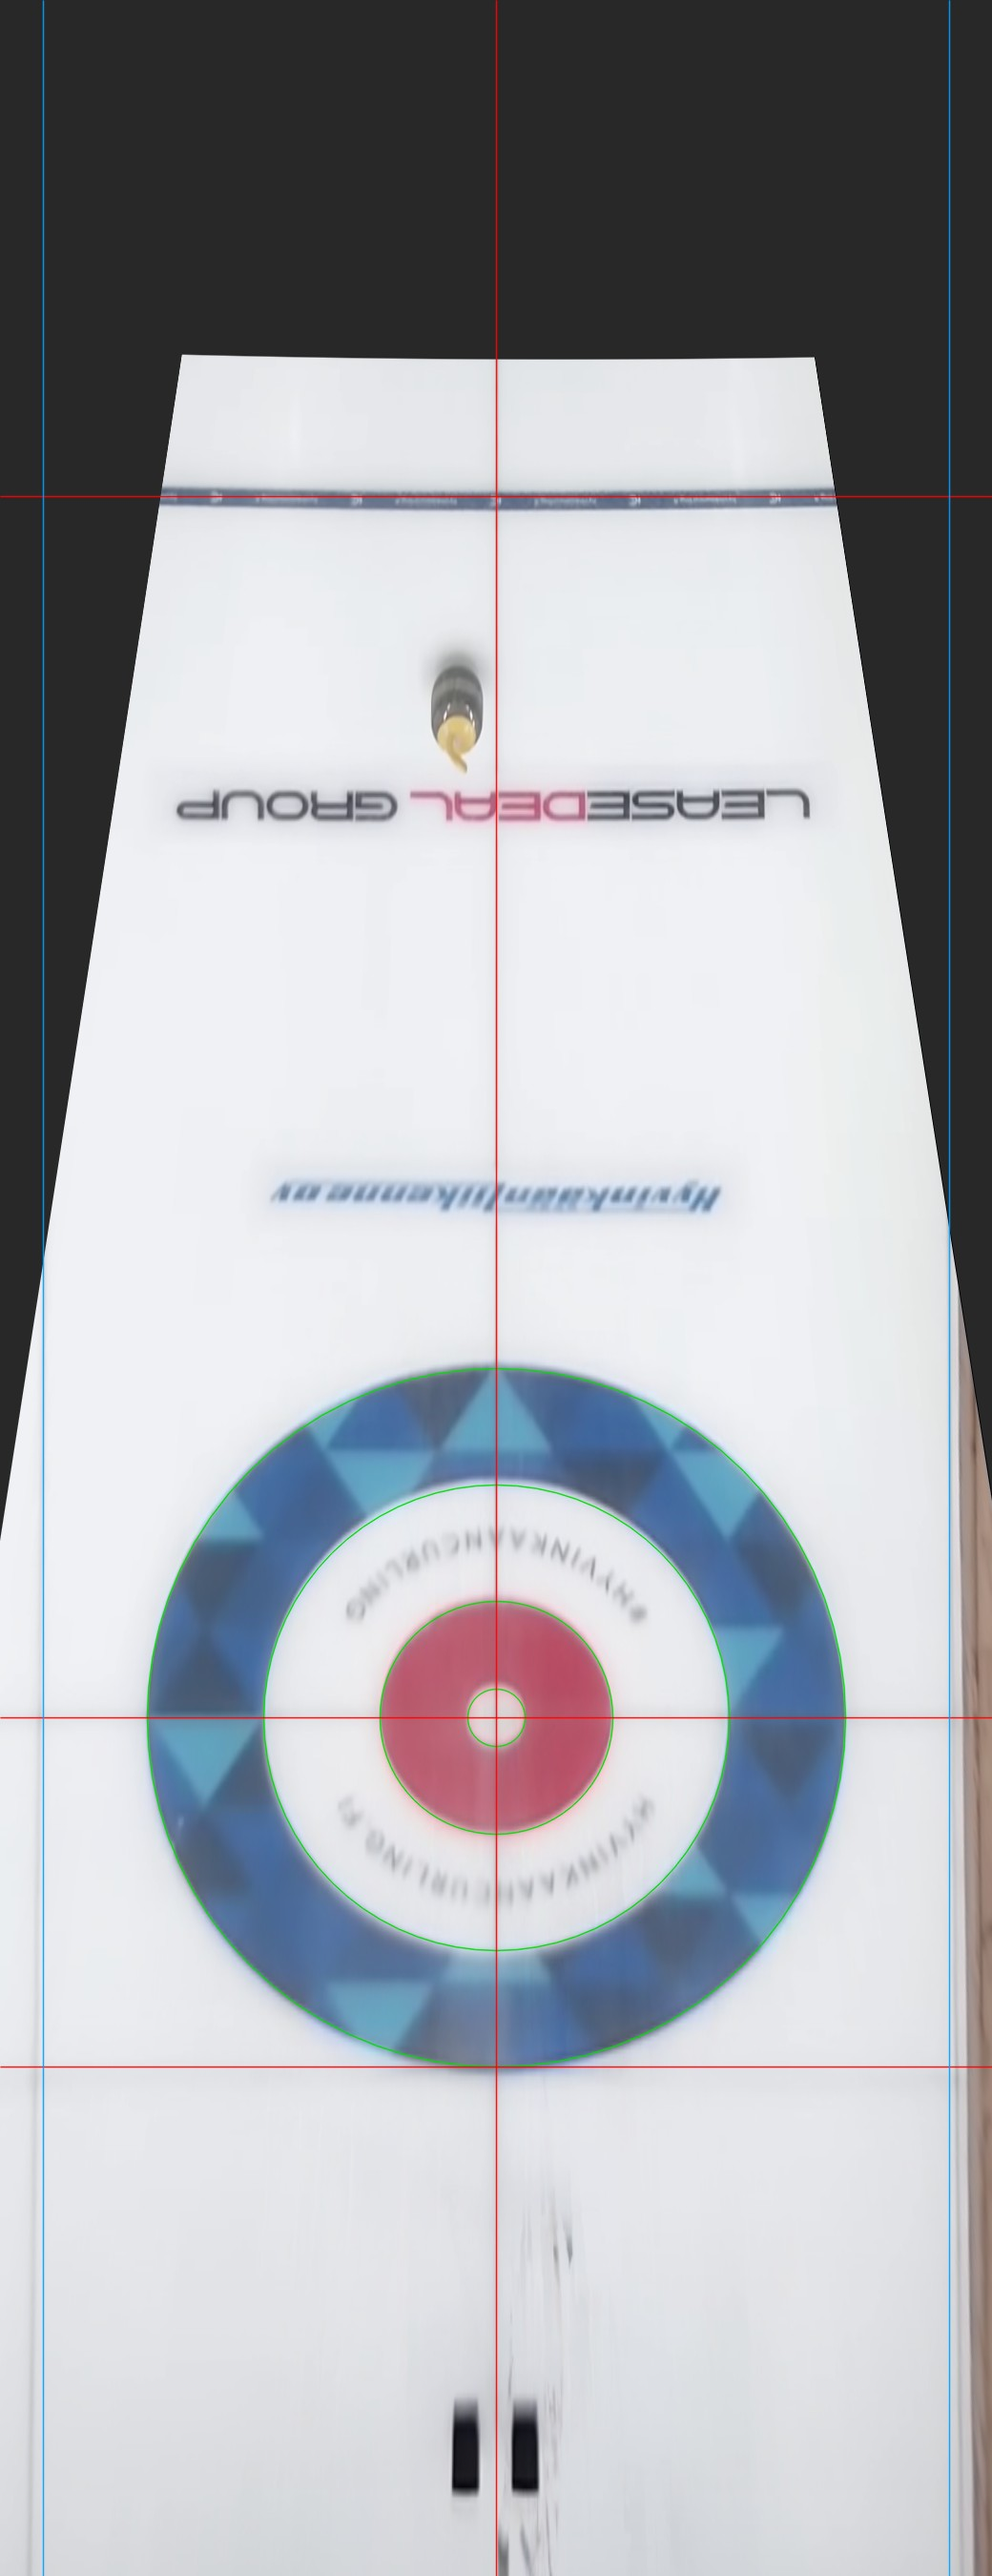
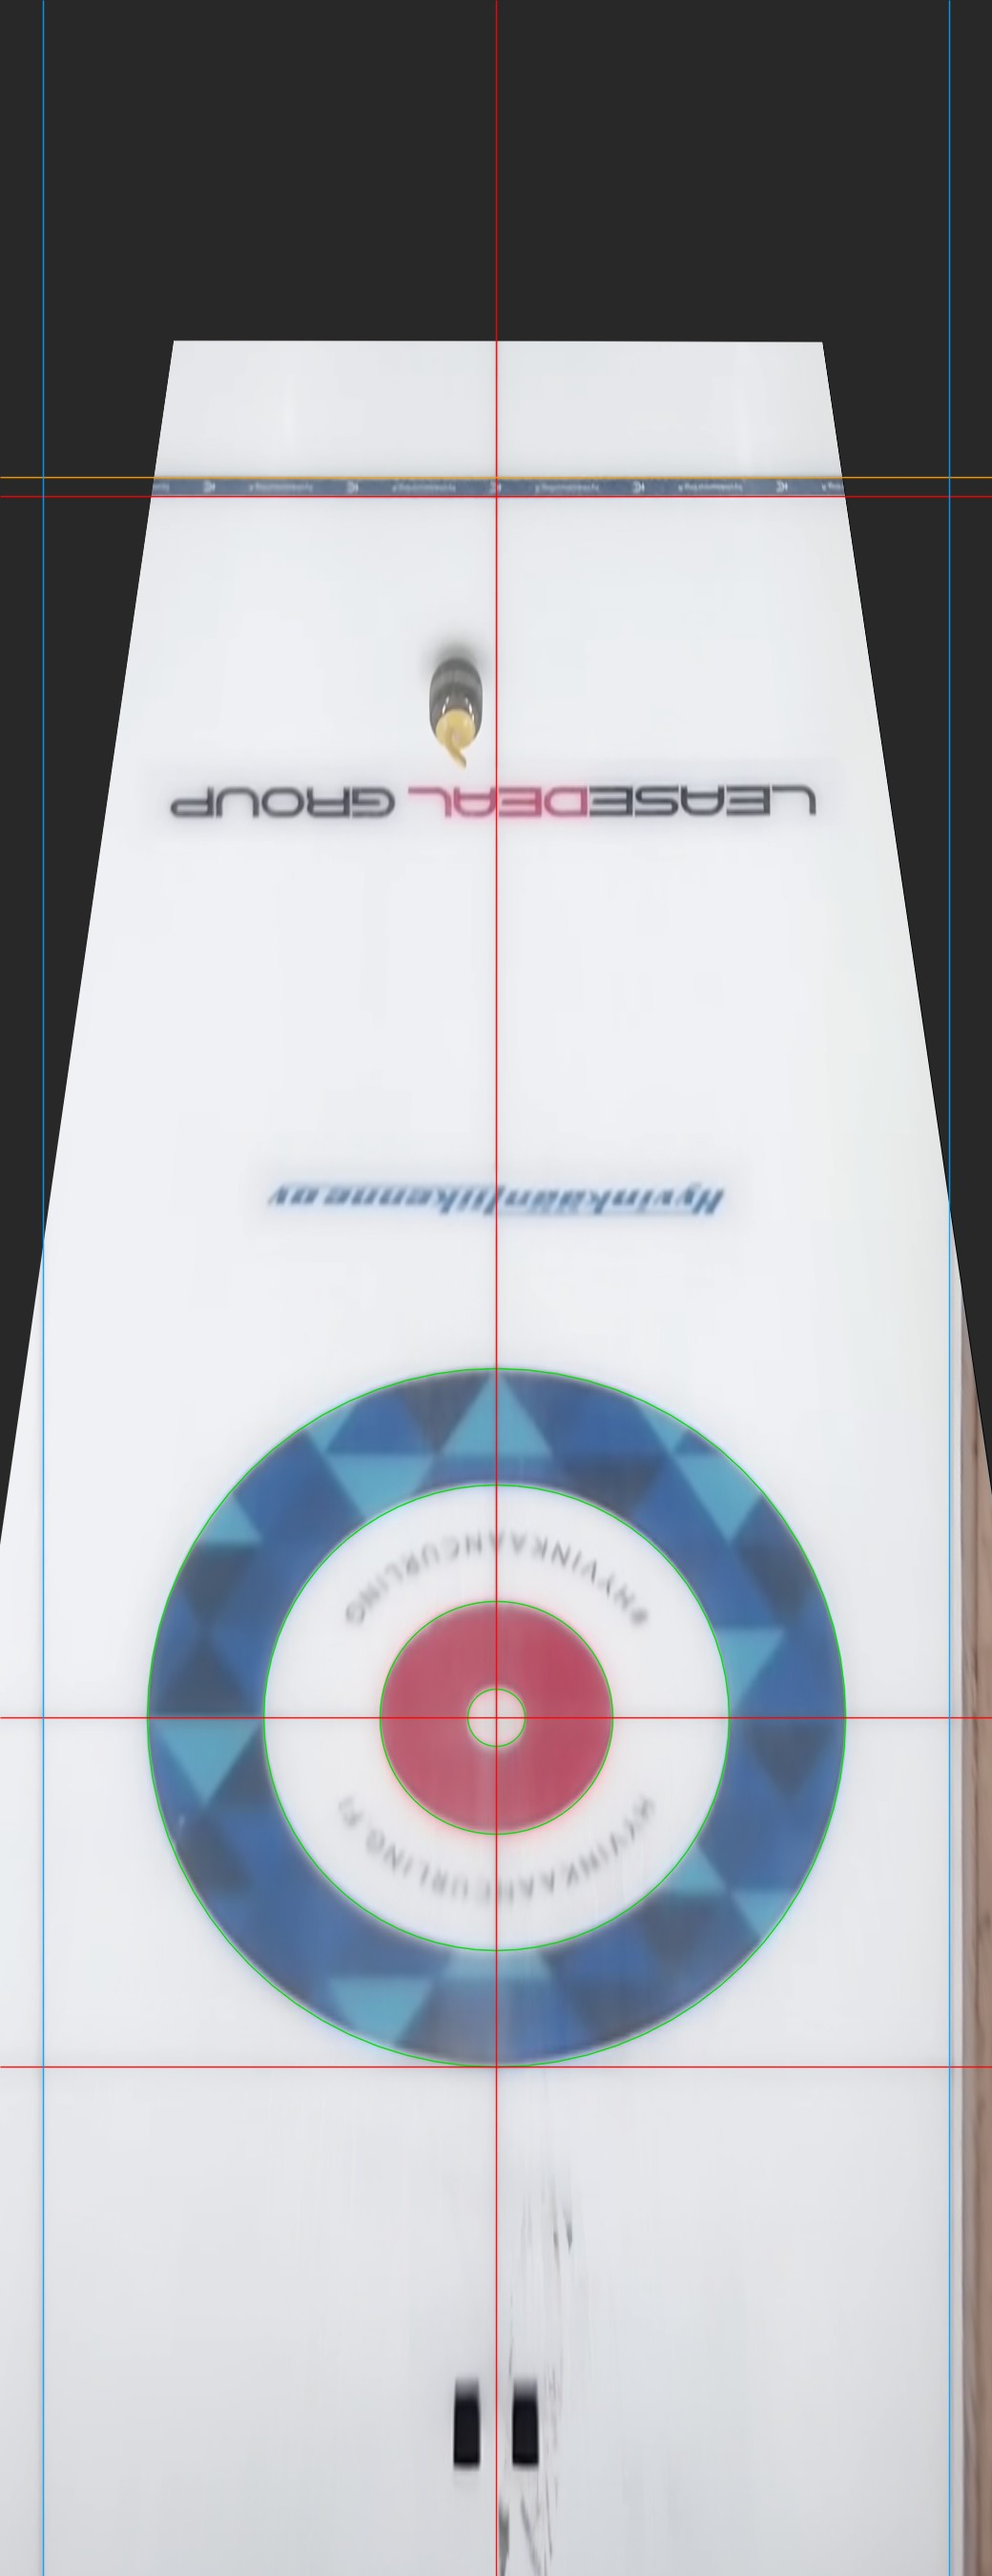
Netti_01_01: tarkempi kalibrointi (reunasovitus alipikselitarkkuudella), hoglinen virallinen paikka = sisareuna
Claude-Session: https://claude.ai/code/session_01TSepZD3gLVcyiH44oyUR5X

diff --git a/Netti_01_01/kalibrointi_netti.py b/Netti_01_01/kalibrointi_netti.py
@@ -174,7 +174,7 @@ def viivapisteet(harju, malli, viiva, rajat_cm, puoli_leveys_px, min_harju, ohit
         vals = cv2.remap(harju, q[:, 0:1].astype(np.float32), q[:, 1:2].astype(np.float32), cv2.INTER_LINEAR).ravel()
         vals = np.convolve(vals, np.ones(3) / 3.0, mode="same")
         i = int(np.argmax(vals[1:-1])) + 1
-        if vals[i] < min_harju:
+        if vals[i] < min_harju or i <= 2 or i >= len(vals) - 3:       # harju haun reunalla = ei oikea viiva
             continue
         # alipikselitarkennus paraabelilla
         a, b, c = vals[i - 1], vals[i], vals[i + 1]
@@ -240,6 +240,181 @@ def sovita(frame, ellipses, H0, k1_vapaa=True, kierrokset=3, verbose=True):
     return malli, viivapts, ring_pts
 
 
+# ---------------------------------------------------------------------------------------------------------------------
+# TARKENNUS: renkaiden ja hoglinen reunat alipikselitarkkuudella (puolitasokohta)
+# ---------------------------------------------------------------------------------------------------------------------
+HOG_LEVEYS_CM = 10.0                     # hoglinen leveys; virallinen mitta T-viivaan on SISAREUNALLE (pesan puoleinen reuna)
+REUNA_IKKUNA_CM = 14.0                   # tasanteet r0 -+ (9..14) cm, reuna haetaan r0 +- 8 cm
+REUNA_MIN_KONTRASTI = 50.0
+RENGAS_REUNAT = {                        # nimi: (r0, kanava (BGR-indeksi), "sisa korkea" = sisapuolella kirkkaampi)
+    "sin_ulko": (rata.BLUE_OUTER_RADIUS_CM, 2, False),
+    "sin_sisa": (rata.BLUE_INNER_RADIUS_CM, 2, True),
+    "pun_ulko": (rata.RED_OUTER_RADIUS_CM, 1, False),
+    "pun_sisa": (rata.RED_INNER_RADIUS_CM, 1, True),
+}
+
+
+def _nayte(kanava_img, malli, xy):
+    p = malli.fyysinen_kuvaksi(xy).astype(np.float32)
+    return cv2.remap(kanava_img, p[:, 0:1], p[:, 1:2], cv2.INTER_CUBIC, borderMode=cv2.BORDER_REPLICATE).ravel()
+
+
+def rengasreunat(frame, malli, askel_aste=2.0):
+    """Renkaiden reunapisteet kuvapisteina: sateittaiset profiilit nykyisen mallin top-down-avaruudessa, reuna = kohta
+    jossa kanava ylittaa sisa- ja ulkotasanteen puolivalin (sumeassa kuvassa symmetrinen -> ei harhaa)."""
+    kanavat = [frame[..., i].astype(np.float32) for i in range(3)]
+    thetas = np.deg2rad(np.arange(0.0, 360.0, askel_aste))
+    out = {}
+    for nimi, (r0, ch, sisa_korkea) in RENGAS_REUNAT.items():
+        radii = r0 + np.arange(-REUNA_IKKUNA_CM, REUNA_IKKUNA_CM + 1e-6, 0.25)
+        pts = []
+        for th in thetas:
+            xy = np.column_stack([radii * math.cos(th), radii * math.sin(th)])
+            prof = _nayte(kanavat[ch], malli, xy)
+            rel = radii - r0
+            a = float(np.mean(prof[(rel >= -REUNA_IKKUNA_CM) & (rel <= -9.0)]))     # sisatasanne
+            b = float(np.mean(prof[(rel >= 9.0) & (rel <= REUNA_IKKUNA_CM)]))       # ulkotasanne
+            if abs(a - b) < REUNA_MIN_KONTRASTI or (a > b) != sisa_korkea:
+                continue
+            half = 0.5 * (a + b)
+            seg = np.where(np.abs(rel) <= 8.0)[0]
+            f = prof[seg] - half
+            cross = np.where(np.sign(f[:-1]) != np.sign(f[1:]))[0]
+            if len(cross) == 0:
+                continue
+            k = cross[np.argmin(np.abs(rel[seg][cross]))]
+            t = f[k] / (f[k] - f[k + 1])
+            r_edge = rel[seg][k] + t * (rel[seg][k + 1] - rel[seg][k]) + r0
+            pts.append([r_edge * math.cos(th), r_edge * math.sin(th)])
+        if pts:
+            P = np.array(pts)
+            rr = np.hypot(P[:, 0], P[:, 1])[:, None]
+            u = P / rr
+            sc = 1.0 / np.maximum(np.linalg.norm(malli.fyysinen_kuvaksi(P + 0.5 * u) - malli.fyysinen_kuvaksi(P - 0.5 * u), axis=1), 1e-6)
+            out[nimi] = (malli.fyysinen_kuvaksi(P), sc)         # kuvapisteet, cm / px reunan suunnassa
+        else:
+            out[nimi] = (np.zeros((0, 2)), np.zeros(0))
+    return out
+
+
+def hogreunat(frame, malli, x_vali=(-225.0, 225.0), askel_cm=6.0):
+    """Hoglinen sisa- (pesan puoleinen, pienempi Y) ja ulkoreuna kuvapisteina. Profiili Y-suunnassa jokaisella X:lla:
+    tummin kohta -> reunat puolitasokohdista valkoisen jaan ja viivan valilla. Logojen valkoiset kohdat ohitetaan."""
+    gray = cv2.cvtColor(frame, cv2.COLOR_BGR2GRAY).astype(np.float32)
+    y_c = HOG_Y_CM + 0.5 * HOG_LEVEYS_CM
+    ys = np.arange(y_c - 30.0, y_c + 30.0 + 1e-6, 0.25)
+    inner, outer = [], []
+    for x in np.arange(x_vali[0], x_vali[1] + 1e-6, askel_cm):
+        prof = _nayte(gray, malli, np.column_stack([np.full_like(ys, x), ys]))
+        prof = np.convolve(prof, np.ones(5) / 5.0, mode="same")
+        i = int(np.argmin(prof[20:-20])) + 20
+        lo = float(np.mean(prof[:8 * 4]))
+        hi = float(np.mean(prof[-8 * 4:]))
+        dark = float(np.mean(prof[max(0, i - 2):i + 3]))
+        if min(lo, hi) - dark < 40.0 or abs(lo - hi) > 25.0:
+            continue
+        half = 0.5 * (0.5 * (lo + hi) + dark)
+
+        def crossing(step):
+            j = i
+            while 0 < j < len(prof) - 1 and prof[j] < half:
+                j += step
+            if not 0 < j < len(prof) - 1:
+                return None
+            jj = j - step
+            t = (half - prof[jj]) / (prof[j] - prof[jj])
+            return ys[jj] + t * (ys[j] - ys[jj])
+
+        y_in, y_out = crossing(-1), crossing(+1)
+        if y_in is None or y_out is None or not 6.0 <= (y_out - y_in) <= 14.0:
+            continue
+        inner.append([x, y_in])
+        outer.append([x, y_out])
+    def f(a):
+        if not a:
+            return np.zeros((0, 2)), np.zeros(0)
+        P = np.array(a)
+        dy = np.column_stack([np.zeros(len(P)), np.full(len(P), 0.5)])
+        sc = 1.0 / np.maximum(np.linalg.norm(malli.fyysinen_kuvaksi(P + dy) - malli.fyysinen_kuvaksi(P - dy), axis=1), 1e-6)
+        return malli.fyysinen_kuvaksi(P), sc
+    return f(inner), f(outer)
+
+
+def sovita_reunoilla(frame, malli, k1_vapaa=True, kierrokset=4, verbose=True):
+    """Parametrit: 8 homografian, k1 ja g = tumman alueen kutistuma kuvapikseleina (sumea ja teroitettu kuva: puolitasokohta
+    on hieman tumman alueen sisapuolella; cm-virhe = g * cm/px reunan suunnassa -> suurempi radan suunnassa)."""
+    centre = malli.centre
+    gray = cv2.cvtColor(frame, cv2.COLOR_BGR2GRAY)
+    harju = _harju(gray)
+    S = np.diag([1.0 / K1_SCALE_PX, 1.0 / K1_SCALE_PX, 1.0])
+    Hn = malli.H @ np.linalg.inv(S)
+    p0 = np.concatenate([(Hn / Hn[2, 2]).ravel()[:8], [malli.k1, 0.0, 0.0]])
+
+    def to_model(p):
+        return Malli(_h_from_params(p) @ S, p[8] if k1_vapaa else 0.0, centre)
+
+    for kierros in range(kierrokset):
+        rengas = rengasreunat(frame, malli)
+        (hog_in, sc_in), (hog_out, sc_out) = hogreunat(frame, malli)
+        lp = {
+            "keskiviiva": viivapisteet(harju, malli, ("X", 0.0), (-450.0, 1000.0), 10, 5.0, 190.0),
+            "T-viiva": viivapisteet(harju, malli, ("Y", 0.0), (-300.0, 300.0), 10, 5.0, 190.0),
+        }
+
+        def resid(p):
+            m = to_model(p)
+            g, gh = p[9], p[10]
+            parts = []
+            for nimi, (pts, sc) in rengas.items():
+                if len(pts):
+                    xy = m.kuva_fyysiseksi(pts)
+                    sign = 1.0 if RENGAS_REUNAT[nimi][2] else -1.0
+                    parts.append(np.hypot(xy[:, 0], xy[:, 1]) - RINGS_CM[nimi] - sign * g * sc)
+            if len(hog_in):
+                parts.append(m.kuva_fyysiseksi(hog_in)[:, 1] - HOG_Y_CM - gh * sc_in)
+                parts.append(m.kuva_fyysiseksi(hog_out)[:, 1] - (HOG_Y_CM + HOG_LEVEYS_CM) + gh * sc_out)
+            for nimi, col in (("keskiviiva", 0), ("T-viiva", 1)):
+                if len(lp[nimi]) >= 3:
+                    parts.append(m.kuva_fyysiseksi(lp[nimi])[:, col])
+            if k1_vapaa:
+                parts.append(np.array([p[8] * 30.0]))
+            return np.concatenate(parts)
+
+        sol = least_squares(resid, p0, loss="soft_l1", f_scale=1.0, max_nfev=400)
+        p0 = sol.x
+        malli = to_model(sol.x)
+        malli.g_px, malli.g_hog_px = float(sol.x[9]), float(sol.x[10])
+        if verbose:
+            r = resid(sol.x)
+            print(f"  tarkennus {kierros + 1}: RMS {math.sqrt(np.mean(r ** 2)):.2f} cm, MAD {1.4826 * np.median(np.abs(r)):.2f} cm, "
+                  f"k1 {malli.k1:+.4f}, g {malli.g_px:+.3f} px, g_hog {malli.g_hog_px:+.3f} px; reunapisteita " + ", ".join(f"{n} {len(v[0])}" for n, v in rengas.items())
+                  + f", hogline {len(hog_in)}, keski {len(lp['keskiviiva'])}, T {len(lp['T-viiva'])}")
+    return malli, dict(rengas=rengas, hog_in=(hog_in, sc_in), hog_out=(hog_out, sc_out), viivat=lp, g=malli.g_px, g_hog=malli.g_hog_px)
+
+
+def residuaalit_reunat(malli, d):
+    """Residuaalit (cm) kutistuma g huomioiden: RMS, mediaani (etumerkillinen) ja n."""
+    g, gh = d["g"], d["g_hog"]
+    out = {}
+
+    def stat(e):
+        return (float(np.sqrt(np.mean(e ** 2))), float(np.median(e)), len(e))
+
+    for nimi, (pts, sc) in d["rengas"].items():
+        if len(pts):
+            xy = malli.kuva_fyysiseksi(pts)
+            sign = 1.0 if RENGAS_REUNAT[nimi][2] else -1.0
+            out[nimi] = stat(np.hypot(xy[:, 0], xy[:, 1]) - RINGS_CM[nimi] - sign * g * sc)
+    for nimi, (pts, sc), tgt, sg in (("hog_sisareuna", d["hog_in"], HOG_Y_CM, 1.0), ("hog_ulkoreuna", d["hog_out"], HOG_Y_CM + HOG_LEVEYS_CM, -1.0)):
+        if len(pts):
+            out[nimi] = stat(malli.kuva_fyysiseksi(pts)[:, 1] - tgt - sg * gh * sc)
+    for nimi, col in (("keskiviiva", 0), ("T-viiva", 1)):
+        pts = d["viivat"][nimi]
+        if len(pts) >= 3:
+            out[nimi] = stat(malli.kuva_fyysiseksi(pts)[:, col])
+    return out
+
+
 def residuaalit(malli, ring_pts, viivapts):
     """Selkokieliset residuaalit (cm)."""
     out = {}
@@ -285,7 +460,8 @@ def piirra_overlay(td):
     col = (0, 0, 255)
     cv2.line(out, _px(0, TOPDOWN_Y_CM[0]), _px(0, TOPDOWN_Y_CM[1]), col, 1, cv2.LINE_AA)                       # keskiviiva
     cv2.line(out, _px(TOPDOWN_X_CM[0], 0), _px(TOPDOWN_X_CM[1], 0), col, 1, cv2.LINE_AA)                       # T-viiva
-    cv2.line(out, _px(TOPDOWN_X_CM[0], HOG_Y_CM), _px(TOPDOWN_X_CM[1], HOG_Y_CM), col, 1, cv2.LINE_AA)          # hogline
+    cv2.line(out, _px(TOPDOWN_X_CM[0], HOG_Y_CM), _px(TOPDOWN_X_CM[1], HOG_Y_CM), col, 1, cv2.LINE_AA)          # hogline (sisareuna)
+    cv2.line(out, _px(TOPDOWN_X_CM[0], HOG_Y_CM + HOG_LEVEYS_CM), _px(TOPDOWN_X_CM[1], HOG_Y_CM + HOG_LEVEYS_CM), (0, 160, 255), 1, cv2.LINE_AA)  # ulkoreuna
     cv2.line(out, _px(TOPDOWN_X_CM[0], -rata.HOUSE_RADIUS_CM), _px(TOPDOWN_X_CM[1], -rata.HOUSE_RADIUS_CM), col, 1, cv2.LINE_AA)  # takaraja
     for x in (-237.5, 237.5):                                                                                   # radan reunat (4,75 m)
         cv2.line(out, _px(x, TOPDOWN_Y_CM[0]), _px(x, TOPDOWN_Y_CM[1]), (255, 160, 0), 1, cv2.LINE_AA)
@@ -302,14 +478,19 @@ def kalibroi_puoli(video, puoli, ulos, k1_vapaa=True):
     ellipses = etsi_renkaat(frame)
     H0 = alkuhomografia(frame, ellipses)
     malli, viivapts, ring_pts = sovita(frame, ellipses, H0, k1_vapaa=k1_vapaa)
-    res = residuaalit(malli, ring_pts, viivapts)
-    print("  residuaalit (cm RMS): " + ", ".join(f"{k} {v:.2f}" if v is not None else f"{k} -" for k, v in res.items()))
+    res_a = residuaalit(malli, ring_pts, viivapts)
+    print("  ellipsisovitus, residuaalit (cm RMS): " + ", ".join(f"{k} {v:.2f}" if v is not None else f"{k} -" for k, v in res_a.items()))
+    malli, d = sovita_reunoilla(frame, malli, k1_vapaa=k1_vapaa)
+    resr = residuaalit_reunat(malli, d)
+    print("  reunasovitus, residuaalit (cm RMS / mediaani / n): "
+          + ", ".join(f"{k} {v[0]:.2f}/{v[1]:+.2f}/{v[2]}" for k, v in resr.items()))
+    res = {k: {"rms_cm": v[0], "mediaani_cm": v[1], "n": v[2]} for k, v in resr.items()}
     td = topdown(frame, malli)
     cv2.imwrite(os.path.join(ulos, f"topdown_{puoli}.png"), td)
     cv2.imwrite(os.path.join(ulos, f"topdown_{puoli}_tarkistus.jpg"), piirra_overlay(td), [cv2.IMWRITE_JPEG_QUALITY, 90])
     with open(os.path.join(ulos, f"kalibrointi_{puoli}.json"), "w") as f:
         json.dump({"puoli": puoli, "rajaus_xywh": PUOLET[puoli], "kierto": "90 astetta vastapaivaan",
-                   "H_kuva_fyysinen": malli.H.tolist(), "k1": malli.k1, "k1_skaala_px": K1_SCALE_PX,
+                   "H_kuva_fyysinen": malli.H.tolist(), "k1": malli.k1, "kutistuma_g_px": getattr(malli, "g_px", 0.0), "kutistuma_hog_px": getattr(malli, "g_hog_px", 0.0), "k1_skaala_px": K1_SCALE_PX,
                    "kuvan_keskipiste": malli.centre.tolist(), "hogline_y_cm": HOG_Y_CM, "residuaalit_cm_rms": res}, f, indent=1)
     return malli, frame, td
 

diff --git a/Netti_01_01/README_netti.md b/Netti_01_01/README_netti.md
@@ -34,7 +34,15 @@ näkyy sekä lähi- että kaukopesä ja molemmat hoglinjat. Tässä kuvassa näk
 
 `python kalibrointi_netti.py Recording.2026-10-14.115218.mp4 --ulos tulokset` kalibroi kummankin puoliskon (vasen, oikea):
 moodikuva -> renkaat + T-/keski-/hogline -> homografia + objektiivin k1 -> top-down (origo = pesän keskipiste, Y kohti
-hoglinea, 2 px/cm). Tulokset kansiossa `tulokset/` (`topdown_*.png`, `topdown_*_tarkistus.jpg` ympyrät ja viivat päällä,
-`kalibrointi_*.json`).
-Residuaalit (cm RMS): vasen: renkaat 0,7-1,4 (sisäsininen 4,0 maskin reuna), keskiviiva 1,9, hogline 1,7, T-viiva 5,3;
-oikea: renkaat 0,9-1,5 (sisäsininen 3,4), keskiviiva 1,6, hogline 2,1, T-viiva 5,6.
+hoglinea, 2 px/cm). Tulokset kansiossa `tulokset/` (`topdown_*.png`, `topdown_*_tarkistus.jpg`, `kalibrointi_*.json`).
+
+Kaksivaiheinen sovitus:
+1. Ellipsisovitus maskeista + viivat -> hyvä alkuarvo (RMS ~2 cm).
+2. Reunasovitus: renkaiden neljä reunaa (sin_ulko 182,9 / sin_sisa 121,9 / pun_ulko 61,0 / pun_sisa 15,2 cm) haetaan
+   säteittäisistä profiileista alipikselitarkkuudella (puolitasokohta), hoglinen molemmat reunat Y-profiileista, keski- ja
+   T-viiva harjahaulla. Parametrit: homografia, k1 (tulee ~0), tumman alueen kutistuma g (px; sumea/teroitettu kuva: puoli-
+   tasokohta on ~0,4-0,6 px tumman alueen sisäpuolella, cm-virhe on suurempi radan suunnassa) ja erikseen hoglinen g (~0).
+3. **Hoglinen virallinen paikka on sen sisäreuna** (pesan puoleinen reuna): Y = 640 cm, ulkoreuna 650 cm (leveys 10 cm).
+
+Residuaalit (cm RMS): vasen: renkaat 0,2-0,4, hoglinen reunat 0,3, keskiviiva 0,4, T-viiva 1,0 (vain 10 pistettä);
+oikea: renkaat 0,25-0,45, hogline 0,3, keskiviiva 1,0, T-viiva 1,4.
